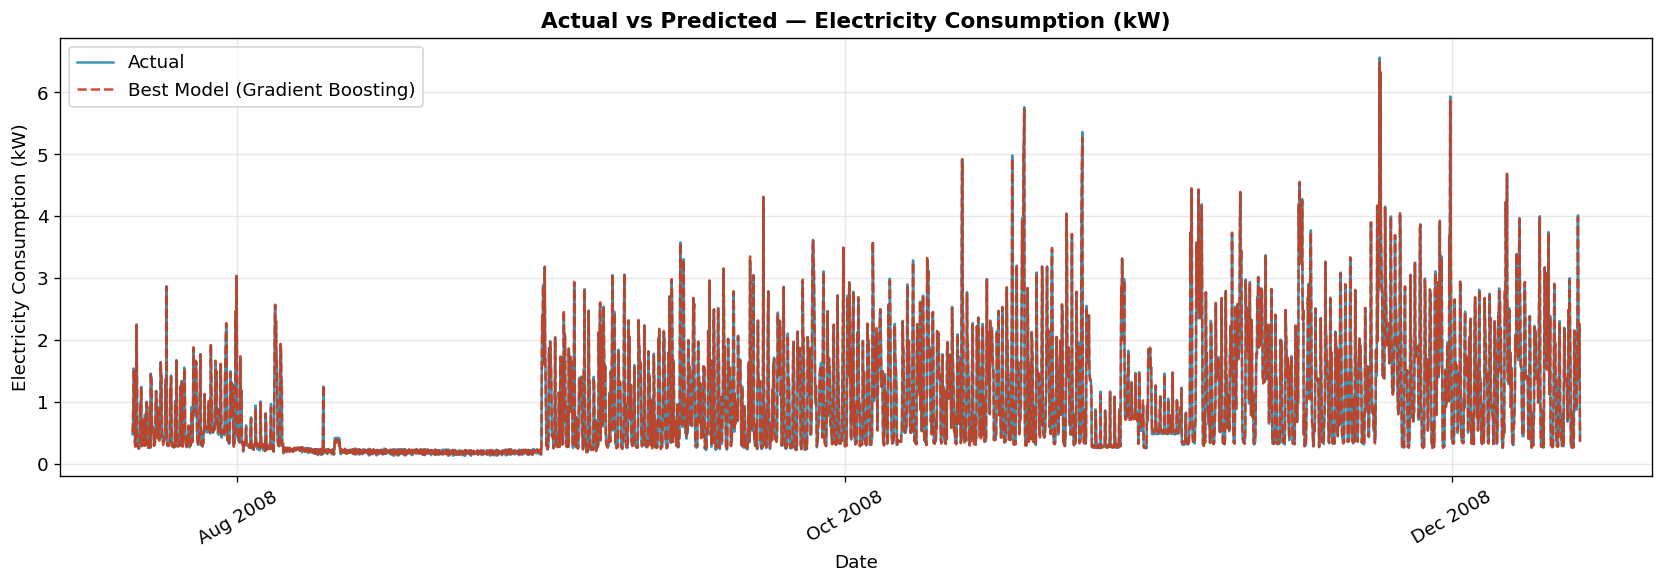
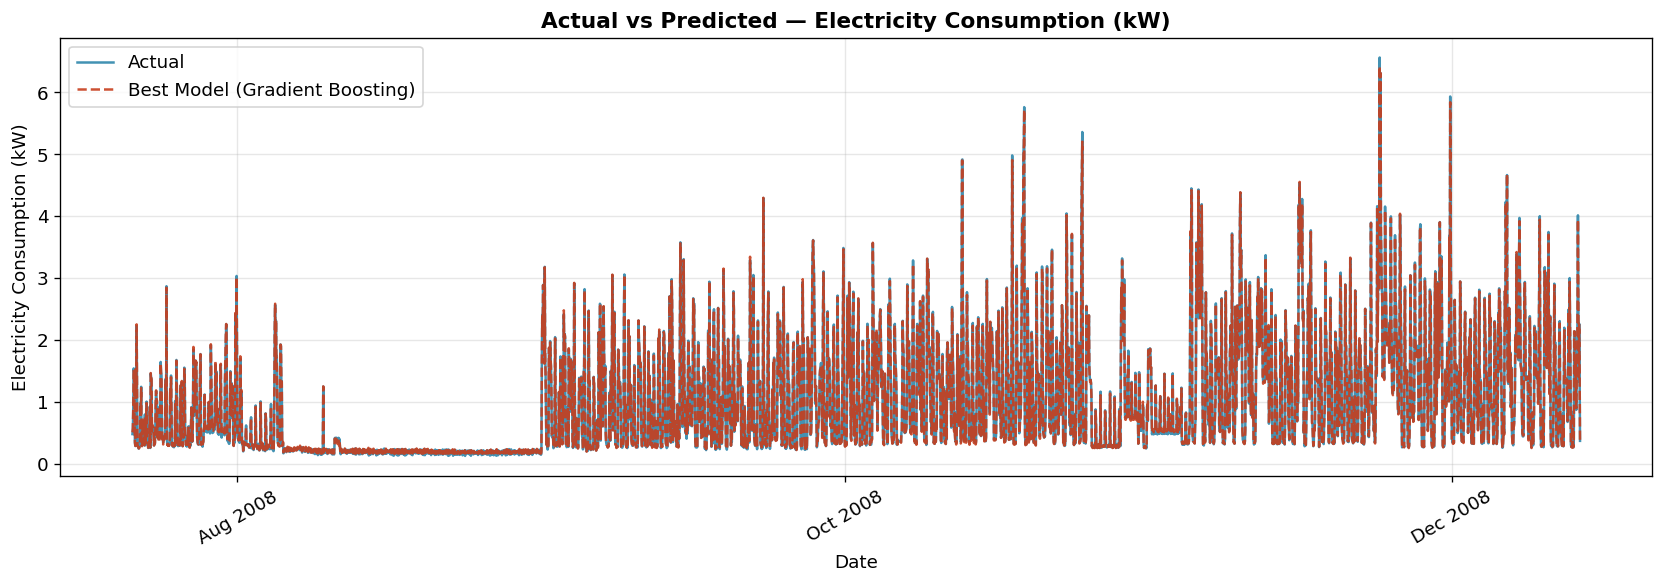
Configure lightweight models (<3MB total) and track them for Render deployment

Changed region(s): [[0.3125, 0.3699, 0.9688, 0.7705], [0.0938, 0.5856, 0.2188, 0.7705]]

diff --git a/main.py b/main.py
@@ -259,9 +259,9 @@ tscv_meta = TimeSeriesSplit(n_splits=5)
 print("\n[6.1] Tuning RandomForestRegressor (n_iter=5)...")
 rf_param_grid = {
     'n_estimators':    [50, 100],
-    'max_depth':       [8, 12],
-    'min_samples_split': [2, 5, 10],
-    'min_samples_leaf':  [1, 2, 4],
+    'max_depth':       [8, 10, 12],
+    'min_samples_split': [5, 10],
+    'min_samples_leaf':  [2, 4],
     'max_features':    ['sqrt', 'log2', 0.5],
 }
 rf_search = RandomizedSearchCV(
@@ -282,11 +282,11 @@ print(f"  Best RF CV R²: {rf_search.best_score_:.4f}")
 # --- Tune Gradient Boosting ---
 print("\n[6.2] Tuning GradientBoostingRegressor (n_iter=5)...")
 gb_param_grid = {
-    'n_estimators':      [200, 300, 500],
-    'max_depth':         [3, 5, 7],
-    'learning_rate':     [0.01, 0.05, 0.1],
-    'subsample':         [0.7, 0.8, 1.0],
-    'min_samples_split': [2, 5, 10],
+    'n_estimators':      [50, 100],
+    'max_depth':         [3, 5],
+    'learning_rate':     [0.05, 0.1],
+    'subsample':         [0.8, 1.0],
+    'min_samples_split': [5, 10],
 }
 gb_search = RandomizedSearchCV(
     GradientBoostingRegressor(random_state=42),